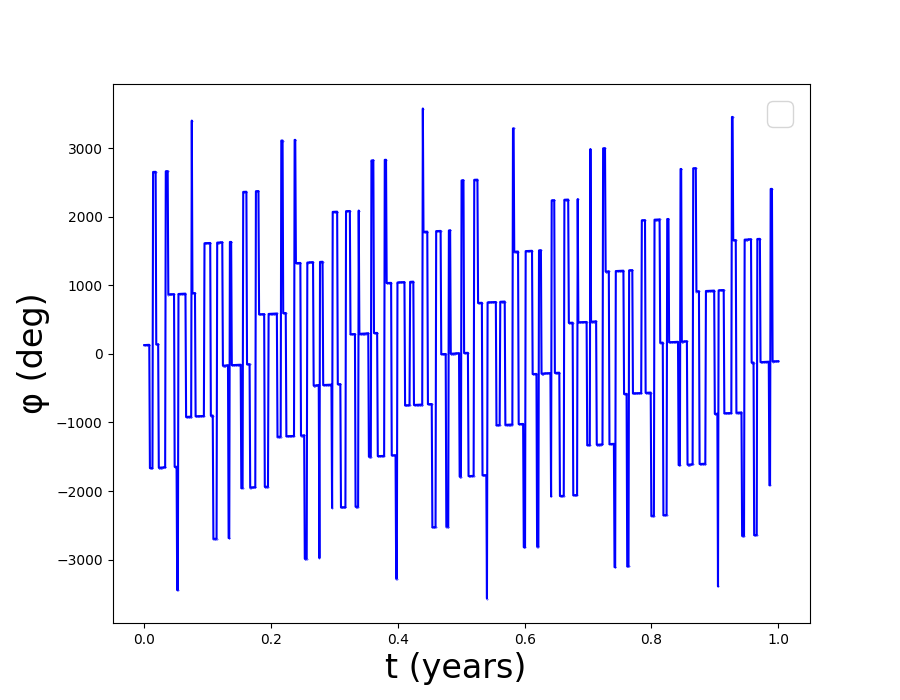
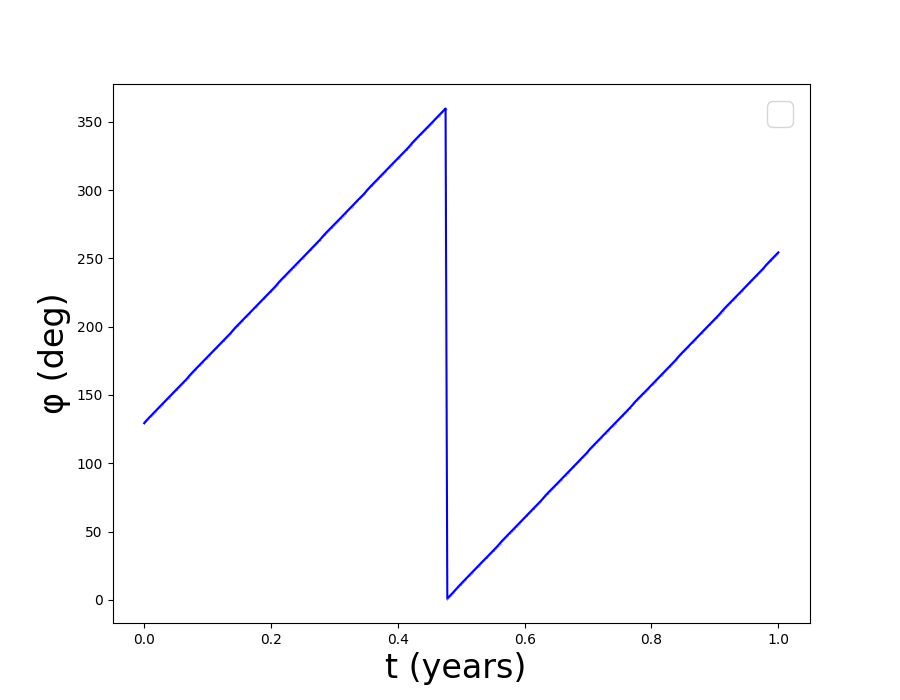
more stuff

diff --git a/Rebound2086.py b/Rebound2086.py
@@ -7,29 +7,27 @@ sim = rebound.Simulation()
 sim.units = ('yr','AU','Msun')
 
 #star/COM
-sim.add(m=0.83)
-#1151.03 // Start with innermost planet, go outwards
-sim.add(m=(0.672**3.7)/332946,P=5.24969846/365.2425,theta=8.875948944787911)
-#1151.02 // Period is in days, convert to years (Divide by 365.2425)
-sim.add(m=(0.948**3.7)/332946,P=7.41088006/365.2425,theta=8.45398854570443)
-#1151.01 // mass ≈ R_p ^ 3.7 in Earth masses if radius of planet < 1.7 earth radii, then divide by 332946 to convert to solar masses
-sim.add(m=(1.229**3.7)/332946, P=10.43545334/365.2425,theta=8.475163889910444)
-#1151.04
-sim.add(m=(0.759**3.7)/332946,P=17.45319318/365.2425,theta=-1.8488879509549183)
-#1151.05
-sim.add(m=(0.801**3.7)/332946,P=21.72027051/365.2425,theta=4.824742488707509)
+sim.add(m=1)
+#2086.01 // Start with innermost planet, go outwards
+sim.add(m=(1.734**3)/332946,P=7.13295045/365.2425,theta=10.300453650942318)
+#2086.02 // Period is in days, convert to years (Divide by 365.2425)
+sim.add(m=(1.943**3)/332946,P=8.91897737/365.2425,theta=7.303898735779818)
+#2086.03 // mass ≈ R_p ^ 3 in Earth masses if radius of planet > 1.7 earth radii, then divide by 332946 to convert to solar masses
+sim.add(m=(1.756**3)/332946, P=11.89824703/365.2425,theta=12.686669555423437)
+#2086.04
+sim.add(m=(1.836**3)/332946,P=335.5198537/365.2425,theta=-170.78681528312197)
 
 os = sim.orbits()
 print("n_i (in rad/days) = %6.3f, %6.3f, %6.3f" % (os[0].n,os[1].n,os[2].n))
 print("P_i (in days)     = %6.3f, %6.3f, %6.3f" % (os[0].P,os[1].P,os[2].P))
 
-Tfinal= 1
-Nout = 365 # number of printed out timesteps.
+Tfinal= 100
+Nout = 365*Tfinal # number of printed out timesteps.
 
 phi = zeros(Nout)
 l1,l2,l3 = zeros(Nout), zeros(Nout), zeros(Nout)
 
-p,q = 5, 7
+p,q = 1, 1
 
 times = linspace(0.,Tfinal,Nout)
 for i,time in enumerate(times):
@@ -43,14 +41,14 @@ phi_degrees = (phi*180/pi) % 360
 print(phi_degrees)
 
 op = rebound.OrbitPlot(sim,unitlabel="[AU]", color="blue", figsize=[5.5,5])
-op.ax.set_title("KOI 1151 (aka Kepler-271)")
+op.ax.set_title("KOI 2086 (aka Kepler-60)")
 
-labels = ["Star", "1151.03", "1151.02", "1151.01", "1151.04", "1151.05"]
+labels = ["Star", "2086.01", "2086.02", "2086.03", "2086.04"]
 for i, p in enumerate(sim.particles):
     x, y, _ = p.xyz
     op.ax.text(x-0.0115, y+0.006, labels[i], fontsize=8, color="black")
 
-op.fig.savefig("orbit1151.png")
+op.fig.savefig("orbit2086.png")
 
 fig = plt.figure(figsize=(9,7))
 ax = plt.subplot(111)
@@ -58,7 +56,7 @@ ax.plot(times,phi_degrees, 'b', marker=".", markersize=.5)
 ax.set_xlabel("t (years) ", fontsize=24)
 ax.set_ylabel("\u03C6 (deg)", fontsize=24)
 ax.legend(fontsize=24)
-plt.savefig("phichart1151.png")
+plt.savefig("phichart2086.png")
 
 for p in sim.particles:
     print("x/y values of each particle:", p.x, p.y)

diff --git a/3bodyequation.py b/3bodyequation.py
@@ -1,13 +1,16 @@
 import math
 
-n1 = 2 * math.pi / 5.24969846
-n2 = 2 * math.pi / 7.41088006
-n3 = 2 * math.pi / 10.43545334
+n1 = (2 * math.pi) / (7.13295045/365.2425)
+n2 = (2 * math.pi) / (8.91897737/365.2425)
+n3 = (2 * math.pi) / (11.89824703/365.2425)
 
+print(n1,n2,n3)
 
+p = 4
+q = 4
 
-p = 5
-q = 7
+print(p*n1-q*n2)
+print(p*n2-q*n3)
 
 ans = p*n1 - (p+q)*n2 + q*n3
 print(ans)

diff --git a/intialangle.py b/intialangle.py
@@ -1,7 +1,7 @@
 import math
 
-period = 21.72027051
-T0 = 784.535465
+period = 335.5198537
+T0 = 609.194458
 
 theta0 = (2*math.pi / period) + (T0 - 780)
 print(theta0)
